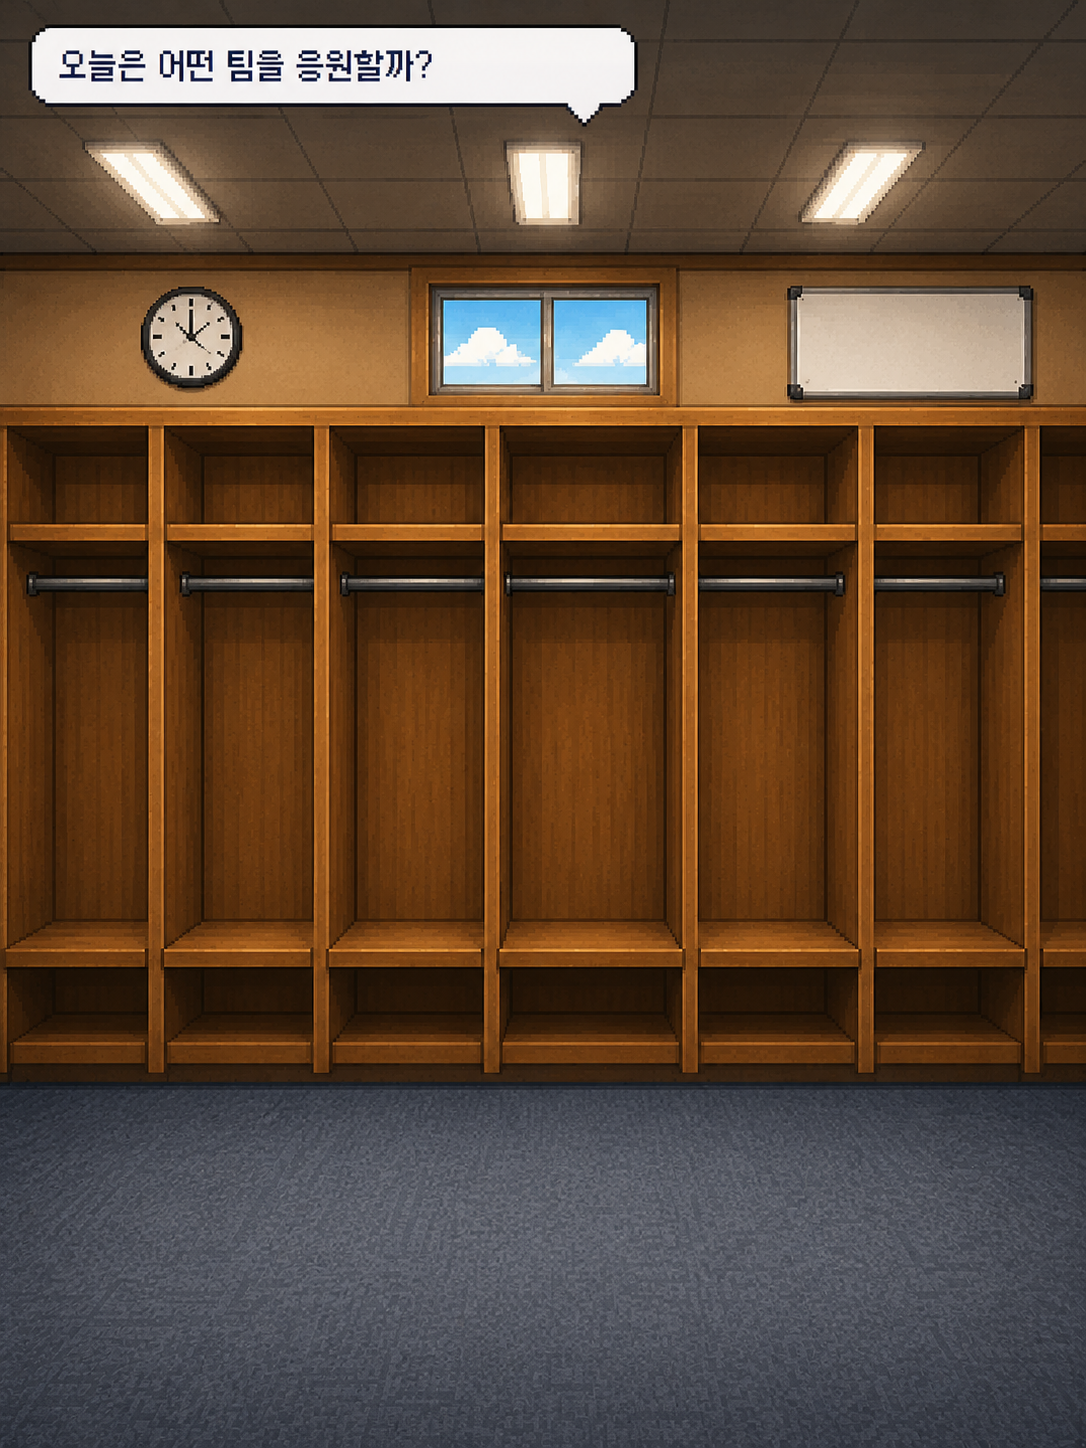
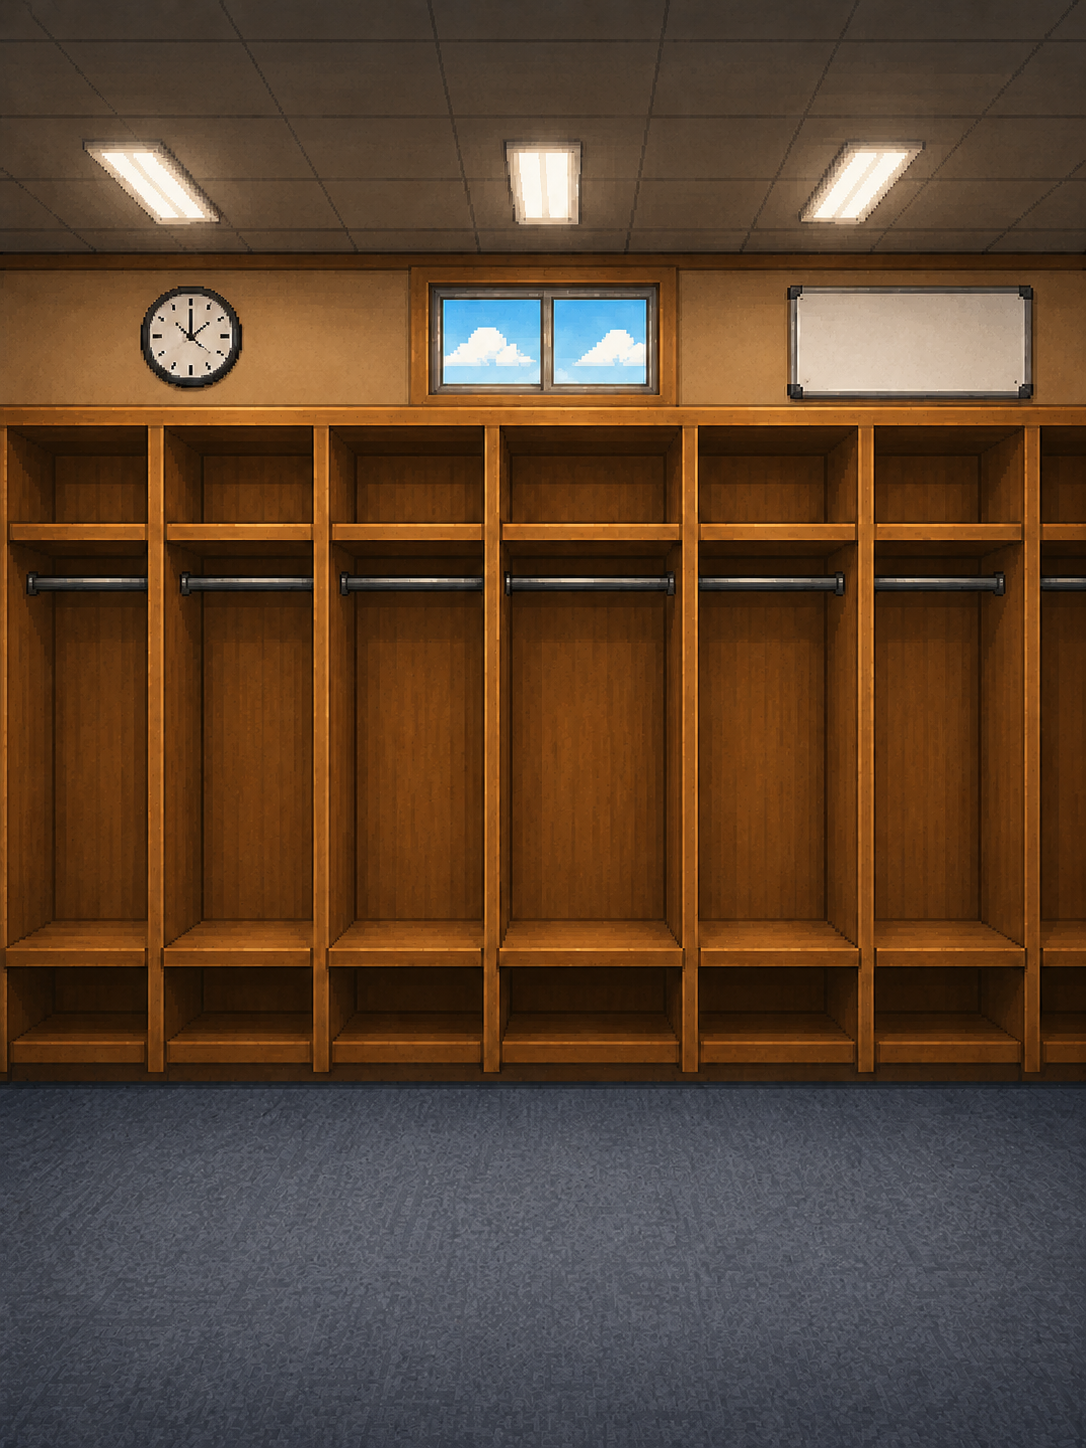
라커룸 이미지 및 다마고치/라커룸 컴포넌트 수정

diff --git a/frontend/src/components/AttendanceCheckIn.tsx b/frontend/src/components/AttendanceCheckIn.tsx
@@ -22,9 +22,7 @@ import {
   tamagotchiStorageKey,
   type TamagotchiViewState,
 } from "../data/tamagotchiState";
-import type { TopMenuTarget } from "./TopMenu";
-import { MenuButton } from "./MenuButton";
-import { SideMenu } from "./SideMenu";
+import { TopMenu, type TopMenuTarget } from "./TopMenu";
 import LockerRoom from "./LockerRoom";
 
 interface AttendanceStatus {
@@ -114,7 +112,7 @@ export interface RewardItem { src: string; name: string; teamBased?: boolean; te
 
 export const LEVEL_REWARDS: Record<number, RewardItem> = {
   3: { src: "/equipment/HT_towel.png", name: "응원 수건", teamBased: true, teamSuffix: "towel" },
-  4: { src: "/equipment/HT_cap.png", name: "모자", teamBased: true, teamSuffix: "cap" },
+  4: { src: "/equipment/HT_cap.png", name: "야구 모자", teamBased: true, teamSuffix: "cap" },
   7: { src: "/equipment/ball_high_level.png", name: "고급 야구공" },
   8: { src: "/equipment/bat_high_level.png", name: "고급 배트" },
   9: { src: "/equipment/glove_high_level.png", name: "고급 글러브" },
@@ -364,7 +362,7 @@ export default function AttendanceCheckIn({
   const [nickname, setNickname] = useState(initialNickname || "");
   const stateStorageKey = useMemo(() => tamagotchiStorageKey(authToken), [authToken]);
   const [dailyState, setDailyState] = useState<TamagotchiViewState>(() =>
-    loadDailyState(stateStorageKey, initialNickname)
+    loadDailyState(stateStorageKey, initialBuddyNickname || initialNickname)
   );
   const [quizQuestions, setQuizQuestions] = useState<QuizQuestion[]>([]);
   const [quizResults, setQuizResults] = useState<Record<string, QuizResult>>({});
@@ -380,7 +378,6 @@ export default function AttendanceCheckIn({
 
   // 꾸미기(라커룸) 오버레이 열림 여부
   const [showLocker, setShowLocker] = useState(false);
-  const [sideMenuOpen, setSideMenuOpen] = useState(false);
 
   // 레벨업 보상 연출 대기열 (앞에서부터 하나씩 팝업)
   const [rewardQueue, setRewardQueue] = useState<RewardItem[]>([]);
@@ -393,9 +390,15 @@ export default function AttendanceCheckIn({
   // 짝꿍 별명 (dev에서 추가됨)
   const displayBuddyNickname = buddyNickname.trim() || DEFAULT_BUDDY_NICKNAME;
 
-  const charLevel = SHOW_TEST_PANEL ? testLevel : status.level;
   const charTeam = SHOW_TEST_PANEL ? testTeam : favTeamCode;
   const charGender = SHOW_TEST_PANEL ? testGender : gender;
+
+  // 무소속(팀 미선택)이면 레벨을 1로 제한 — 어떤 경로(테스트 패널/실제 경험치)로 레벨이 올라도
+  // 캐릭터/보상/라커룸 화면은 2레벨 이상을 그리지 않음 (구단별 이미지가 없는 화면 노출 방지)
+  const rawLevel = SHOW_TEST_PANEL ? testLevel : status.level;
+  const charLevel = !charTeam ? Math.min(rawLevel, 1) : rawLevel;
+  // 무소속인데 실제 레벨이 2 이상이면 안내 배너 표시용
+  const levelLockedByNoTeam = !charTeam && rawLevel >= 2;
 
   const displayLevel = SHOW_TEST_PANEL ? charLevel : (status.level || 3);
   const displayProgress = SHOW_TEST_PANEL ? 0 : (progress || 60);
@@ -496,7 +499,7 @@ export default function AttendanceCheckIn({
       onBuddyNicknameChange?.(nextBuddyNickname);
       updateDailyState((current) => ({
         ...current,
-        speechText: randomSpeech(DEFAULT_SPEECHES, nickname),
+        speechText: randomSpeech(DEFAULT_SPEECHES, nextBuddyNickname),
       }));
     } catch (error) {
       setBuddyProfileError(error instanceof Error ? error.message : "야구짝꿍 설정 저장에 실패했습니다.");
@@ -616,7 +619,7 @@ export default function AttendanceCheckIn({
         const initialized = initializeTamagotchiState(
           serverState,
           todayKey(),
-          randomSpeech(DEFAULT_SPEECHES, nickname),
+          randomSpeech(DEFAULT_SPEECHES, buddyNickname || nickname),
         );
         setDailyState(initialized);
         saveDailyState(stateStorageKey, initialized);
@@ -686,13 +689,13 @@ export default function AttendanceCheckIn({
       const data = (await response.json()) as AttendanceStatus;
       setStatus(data);
       saveFallback(authToken, data);
-      const speech = randomSpeech(ATTENDANCE_SPEECHES, nickname);
+      const speech = randomSpeech(ATTENDANCE_SPEECHES, displayBuddyNickname);
       updateDailyState((current) => applyAttendance(current, todayKey(), speech));
       setNotice(speech);
     } catch {
       const next = applyLocalCheckIn(authToken, status);
       setStatus(next);
-      const speech = randomSpeech(ATTENDANCE_SPEECHES, nickname);
+      const speech = randomSpeech(ATTENDANCE_SPEECHES, displayBuddyNickname);
       updateDailyState((current) => applyAttendance(current, todayKey(), speech));
       setNotice(speech);
     } finally {
@@ -752,7 +755,7 @@ export default function AttendanceCheckIn({
   }
 
   function handleCheer() {
-    const speech = randomSpeech(CHEER_SPEECHES, nickname);
+    const speech = randomSpeech(CHEER_SPEECHES, displayBuddyNickname);
     updateDailyState((current) => applyCheer(current, todayKey(), speech));
     setNotice(speech);
   }
@@ -834,15 +837,10 @@ export default function AttendanceCheckIn({
 
   return (
     <section className="tamagotchi-dashboard" aria-label="야구짝꿍">
-      <div className="tamagotchi-menu-bar">
-        <MenuButton onClick={() => setSideMenuOpen(true)} />
-      </div>
-
-      <SideMenu
-        isOpen={sideMenuOpen}
+      <TopMenu
         active="tamagotchi"
+        className="tamagotchi-nav"
         onNavigate={(target) => onNavigate?.(target)}
-        onClose={() => setSideMenuOpen(false)}
       />
 
       <section className="tamagotchi-status-card" aria-label="캐릭터 상태">
@@ -872,6 +870,27 @@ export default function AttendanceCheckIn({
       </section>
 
       <section className="tamagotchi-field-card" aria-label="캐릭터 영역" style={{ position: "relative" }}>
+        {/* 무소속인데 레벨이 2 이상이면 안내: 팀을 선택해야 캐릭터가 성장한 모습으로 보임 */}
+        {levelLockedByNoTeam ? (
+          <div
+            style={{
+              position: "absolute",
+              left: "50%",
+              bottom: 8,
+              transform: "translateX(-50%)",
+              background: "rgba(220, 38, 38, 0.92)",
+              color: "#fff",
+              fontSize: 12,
+              fontWeight: 700,
+              padding: "6px 12px",
+              borderRadius: 999,
+              whiteSpace: "nowrap",
+              zIndex: 3,
+            }}
+          >
+            ⚠️ 2레벨 이상은 팀 선택을 해야 가능합니다.
+          </div>
+        ) : null}
         <div className="tamagotchi-speech-bubble">
           {dailyState.speechText}
         </div>
@@ -901,17 +920,29 @@ export default function AttendanceCheckIn({
             🧪 테스트 패널 (배포 시 SHOW_TEST_PANEL=false)
           </div>
 
-          <div style={{ display: "flex", alignItems: "center", gap: 10, marginBottom: 10 }}>
+          <div style={{ display: "flex", alignItems: "center", gap: 10, marginBottom: 4 }}>
             <span style={{ width: 32, color: "#6b7280" }}>레벨</span>
             <input
               type="range"
               min={1}
               max={10}
               value={testLevel}
-              onChange={(e) => setTestLevel(Number(e.target.value))}
+              onChange={(e) => {
+                const next = Number(e.target.value);
+                setTestLevel(next);
+                // 규칙: 1레벨 = 무조건 무소속, 2레벨 이상 = 무조건 구단 소속
+                if (next === 1) {
+                  setTestTeam("");
+                } else if (!testTeam) {
+                  setTestTeam("HT"); // 2레벨 진입 시 구단 미선택이면 기본 구단 자동 선택
+                }
+              }}
               style={{ flex: 1 }}
             />
             <strong style={{ width: 24, textAlign: "right" }}>{testLevel}</strong>
+          </div>
+          <div style={{ color: "#6b7280", fontSize: 12, marginBottom: 10 }}>
+            1레벨 = 무소속 고정 · 2레벨부터 구단 소속 (무소속 불가)
           </div>
 
           <div style={{ display: "flex", alignItems: "center", gap: 10 }}>
@@ -919,9 +950,11 @@ export default function AttendanceCheckIn({
             <select
               value={testTeam}
               onChange={(e) => setTestTeam(e.target.value)}
-              style={{ flex: 1, padding: "4px 6px", borderRadius: 6 }}
+              disabled={testLevel === 1}
+              title={testLevel === 1 ? "1레벨은 무소속 고정입니다. 레벨을 올리면 구단을 선택할 수 있어요." : undefined}
+              style={{ flex: 1, padding: "4px 6px", borderRadius: 6, opacity: testLevel === 1 ? 0.5 : 1, cursor: testLevel === 1 ? "not-allowed" : "pointer" }}
             >
-              <option value="">무소속(default)</option>
+              <option value="" disabled={testLevel >= 2}>무소속(default)</option>
               <option value="HT">KIA (HT)</option>
               <option value="SS">삼성 (SS)</option>
               <option value="HH">한화 (HH)</option>
@@ -971,21 +1004,21 @@ export default function AttendanceCheckIn({
             <span style={{ width: 32, color: "#6b7280" }}>단계</span>
             <button
               type="button"
-              onClick={() => setTestLevel(1)}
+              onClick={() => { setTestLevel(1); setTestTeam(""); }}
               style={{ flex: 1, padding: "5px 0", borderRadius: 8, cursor: "pointer", border: "1px solid #cbd5e1", background: charLevel <= 1 ? "#ede9fe" : "#fff" }}
             >
               1레벨(default)
             </button>
             <button
               type="button"
-              onClick={() => setTestLevel(4)}
+              onClick={() => { setTestLevel(4); if (!testTeam) setTestTeam("HT"); }}
               style={{ flex: 1, padding: "5px 0", borderRadius: 8, cursor: "pointer", border: "1px solid #cbd5e1", background: (charLevel >= 2 && charLevel <= 4) ? "#ede9fe" : "#fff" }}
             >
               4레벨(child)
             </button>
             <button
               type="button"
-              onClick={() => setTestLevel(5)}
+              onClick={() => { setTestLevel(5); if (!testTeam) setTestTeam("HT"); }}
               style={{ flex: 1, padding: "5px 0", borderRadius: 8, cursor: "pointer", border: "1px solid #cbd5e1", background: charLevel >= 5 ? "#ede9fe" : "#fff" }}
             >
               5레벨(adult)

diff --git a/frontend/src/components/LockerRoom.tsx b/frontend/src/components/LockerRoom.tsx
@@ -52,7 +52,7 @@ const LOCKER_ITEM_POS: Record<number, { left: string; top: string; width: string
   8: { left: "66.2%", top: "63.1%", width: "57%",   rotate: 148, z: 2 }, // 고급배트
   9: { left: "48.8%", top: "75.9%", width: "37%",   rotate: 0,   z: 3 }, // 고급글러브
   4: { left: "38%",   top: "76%",   width: "26%",   rotate: 11,  z: 4 }, // 모자 (글러브보다 앞)
-  7: { left: "72%",   top: "81%",   width: "14%",   rotate: 0,   z: 5 }, // 야구공 (맨 앞, 배트 오른쪽 구석)
+  7: { left: "69.1%", top: "79%",   width: "14%",   rotate: 0,   z: 5 }, // 야구공 (맨 앞, 라커 구석)
 };
 
 export default function LockerRoom({ level, teamCode, gender, onClose }: LockerRoomProps) {